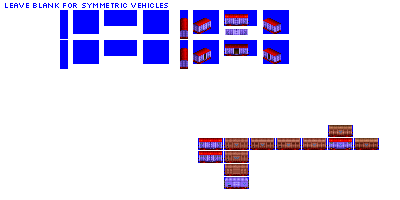
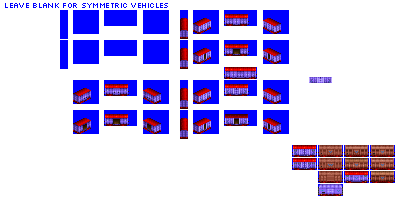
Change: WIP on improved gen 4 merchandise box vans

diff --git a/src/vehicles/pony/merchandise_box_cars_pony.py b/src/vehicles/pony/merchandise_box_cars_pony.py
@@ -10,7 +10,7 @@ def main(roster_id, **kwargs):
         base_numeric_id=16480,
         gen=3,
         subtype="A",
-        sprites_complete=True, # needs to be improved, but eh
+        sprites_complete=False,
     )
 
     consist.add_unit(type=FreightCar, chassis="2_axle_filled_16px")
@@ -21,7 +21,7 @@ def main(roster_id, **kwargs):
         base_numeric_id=25610,
         gen=3,
         subtype="B",
-        sprites_complete=True,
+        sprites_complete=False,
     )
 
     consist.add_unit(type=FreightCar, chassis="4_axle_filled_24px")
@@ -32,7 +32,7 @@ def main(roster_id, **kwargs):
         base_numeric_id=24830,
         gen=4,
         subtype="A",
-        sprites_complete=True,
+        sprites_complete=False,
     )
 
     consist.add_unit(type=FreightCar, chassis="2_axle_filled_16px")
@@ -43,7 +43,7 @@ def main(roster_id, **kwargs):
         base_numeric_id=25630,
         gen=4,
         subtype="B",
-        sprites_complete=True,
+        sprites_complete=False,
     )
 
     consist.add_unit(type=FreightCar, chassis="2_axle_filled_24px")
@@ -54,7 +54,7 @@ def main(roster_id, **kwargs):
         base_numeric_id=16450,
         gen=4,
         subtype="C",
-        sprites_complete=True,
+        sprites_complete=False,
     )
 
     consist.add_unit(
